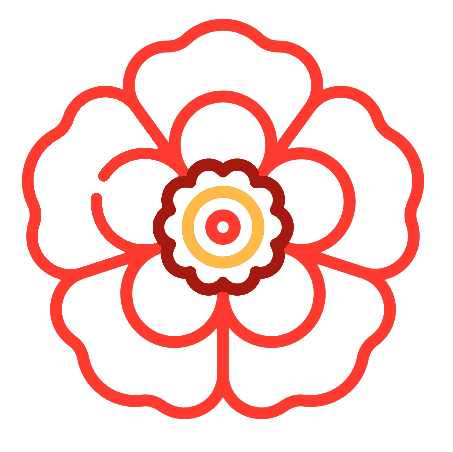
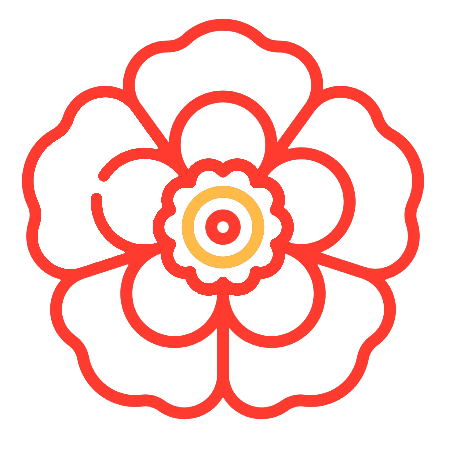
Minor Update
Sizing Fixes, etc.

Changed region(s): [[0.34, 0.3407, 0.649, 0.6504]]

diff --git a/index.html b/index.html
@@ -22,7 +22,7 @@
           <a href="contact.html">Contact</a>
         </nav>
         <a href="#">
-          <img class="header_image" src="" alt="LinkedIn">
+          <img class="header_image" src="./Images/LinkedIn.png" alt="LinkedIn">
         </a>
       </div>
     <!-- Grid Closing Tag -->
@@ -31,9 +31,9 @@
 
   <div class="grid">
     <div class="grid_align_hero">
-      <img src="./Images/Star.png" alt="Star">
+      <img class="star" src="./Images/Star.png" alt="Star">
       <h1 id="name">Elizabeth Zuck</h1>
-      <img src="./Images/Star.png" alt="Picture of a star from the 'Love Ya Like A Sister' Font">
+      <img class="star" src="./Images/Star.png" alt="Picture of a star from the 'Love Ya Like A Sister' Font">
     </div>
 
     <div class="grid_align">
@@ -42,11 +42,11 @@
 
     <div class="flex_container grid_align">
       <h6>Creative</h6>
-      <img src="./Images/Flower-1.png" alt="flower divider">
+      <img class="flower" src="./Images/Flower-1.png" alt="flower divider">
       <h6>Detail-oriented</h6>
-      <img src="./Images/Flower-1.png" alt="flower divider">
+      <img class="flower" src="./Images/Flower-1.png" alt="flower divider">
       <h6>Data-Driven</h6>
-      <img src="./Images/Flower-1.png" alt="flower divider">
+      <img class="flower" src="./Images/Flower-1.png" alt="flower divider">
       <h6>User-Centered</h6>
     </div>
 
@@ -73,8 +73,7 @@
           Flaticon</a>
         <a href="https://www.flaticon.com/free-icon/dahlia_2577712" title="dahlia icons">Dahlia icons created by Freepik
           - Flaticon</a>
-        <a href="https://www.flaticon.com/free-icon/linkedin_3536569" title="linkedin icons">Linkedin icons created by
-          riajulislam - Flaticon</a>
+        <a href="https://www.flaticon.com/free-icon/linkedin-logo_61109" title="linkedin icons">Linkedin icons created by Google - Flaticon</a>
       </div>
       <div class="grid_footer_right">
         <h6>Sitemap</h6>

diff --git a/about.html b/about.html
@@ -10,7 +10,7 @@
     <div class="grid">
       <div class="flex_container nav_dimension grid_align">
         <a href="index.html">
-          <img src="./Images/EZ Logo.png" alt="Logo">
+          <img class="header_image" src="./Images/EZ Logo.png" alt="Logo">
         </a>
         <nav>
           <a href="case-studies.html">Case Studies</a>
@@ -19,7 +19,9 @@
           <div class="v_line">.</div>
           <a href="contact.html">Contact</a>
         </nav>
-        <img src="" alt="LinkedIn">
+        <a href="#">
+          <img class="header_image" src="./Images/LinkedIn.png" alt="LinkedIn">
+        </a>
       </div>
     <!-- Grid Closing Tag -->
     </div>
@@ -36,7 +38,7 @@
         <h6>Attributions</h6>
         <a href="https://www.flaticon.com/free-icon/rose_2448667" title="flower icons">Flower icons created by Freepik - Flaticon</a>
         <a href="https://www.flaticon.com/free-icon/dahlia_2577712" title="dahlia icons">Dahlia icons created by Freepik - Flaticon</a>
-        <a href="https://www.flaticon.com/free-icon/linkedin_3536569" title="linkedin icons">Linkedin icons created by riajulislam - Flaticon</a>
+        <a href="https://www.flaticon.com/free-icon/linkedin-logo_61109" title="linkedin icons">Linkedin icons created by Google - Flaticon</a>
       </div>
       <div class="grid_footer_right">
         <h6>Sitemap</h6>

diff --git a/contact.html b/contact.html
@@ -10,7 +10,7 @@
     <div class="grid">
       <div class="flex_container nav_dimension grid_align">
         <a href="index.html">
-          <img src="./Images/EZ Logo.png" alt="Logo">
+          <img class="header_image" src="./Images/EZ Logo.png" alt="Logo">
         </a>
         <nav>
           <a href="case-studies.html">Case Studies</a>
@@ -19,7 +19,9 @@
           <div class="v_line">.</div>
           <a href="#">Contact</a>
         </nav>
-        <img src="" alt="LinkedIn">
+        <a href="#">
+          <img class="header_image" src="./Images/LinkedIn.png" alt="LinkedIn">
+        </a>
       </div>
     <!-- Grid Closing Tag -->
     </div>
@@ -31,7 +33,7 @@
         <h6>Attributions</h6>
         <a href="https://www.flaticon.com/free-icon/rose_2448667" title="flower icons">Flower icons created by Freepik - Flaticon</a>
         <a href="https://www.flaticon.com/free-icon/dahlia_2577712" title="dahlia icons">Dahlia icons created by Freepik - Flaticon</a>
-        <a href="https://www.flaticon.com/free-icon/linkedin_3536569" title="linkedin icons">Linkedin icons created by riajulislam - Flaticon</a>
+        <a href="https://www.flaticon.com/free-icon/linkedin-logo_61109" title="linkedin icons">Linkedin icons created by Google - Flaticon</a>
       </div>
       <div class="grid_footer_right">
         <h6>Sitemap</h6>

diff --git a/case-studies.html b/case-studies.html
@@ -10,7 +10,7 @@
     <div class="grid">
       <div class="flex_container nav_dimension grid_align">
         <a href="index.html">
-          <img src="./Images/EZ Logo.png" alt="Logo">
+          <img class="header_image" src="./Images/EZ Logo.png" alt="Logo">
         </a>
         <nav>
           <a href="#">Case Studies</a>
@@ -19,7 +19,9 @@
           <div class="v_line">.</div>
           <a href="contact.html">Contact</a>
         </nav>
-        <img src="" alt="LinkedIn">
+        <a href="#">
+          <img class="header_image" src="./Images/LinkedIn.png" alt="LinkedIn">
+        </a>
       </div>
     <!-- Grid Closing Tag -->
     </div>
@@ -31,7 +33,7 @@
         <h6>Attributions</h6>
         <a href="https://www.flaticon.com/free-icon/rose_2448667" title="flower icons">Flower icons created by Freepik - Flaticon</a>
         <a href="https://www.flaticon.com/free-icon/dahlia_2577712" title="dahlia icons">Dahlia icons created by Freepik - Flaticon</a>
-        <a href="https://www.flaticon.com/free-icon/linkedin_3536569" title="linkedin icons">Linkedin icons created by riajulislam - Flaticon</a>
+        <a href="https://www.flaticon.com/free-icon/linkedin-logo_61109" title="linkedin icons">Linkedin icons created by Google - Flaticon</a>
       </div>
       <div class="grid_footer_right">
         <h6>Sitemap</h6>

diff --git a/style.css b/style.css
@@ -77,14 +77,23 @@ nav a:hover
 }
 a:hover img
 {
-  height: 50px;
+  height: 55px;
 }
 
 .vines
 {
-  height: 25px;
+  height: 44px;
   background-image: url(./Images/Vines.png);
   background-repeat: repeat-x;
+}
+.star
+{
+  height: 35px;
+}
+.flower
+{
+  height: 45px;
+  margin: 0px 10px;
 }
 
 footer
